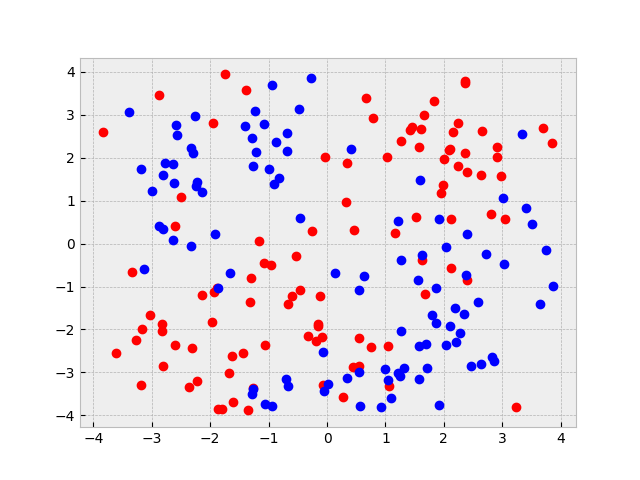
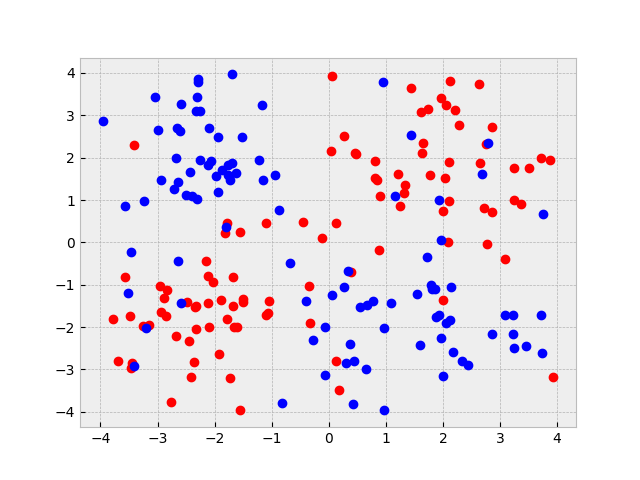
before random tree implementation

diff --git a/src/decision_tree.py b/src/decision_tree.py
@@ -2,12 +2,12 @@ import math
 import random
 
 class DecisionTree():
-    def __init__(self, data_dict, min_size_to_split):
+    def __init__(self, data_dict, min_size_to_split, random_splits=None):
         self.point_data = data_dict
         self.entropy = self.calculate_entropy()
         self.branches = []
-        self.best_split = None
         self.min_size_to_split = min_size_to_split
+        self.random_splits = random_splits
 
     def get_all_points(self, data_dict=None):
         all_points = []
@@ -108,10 +108,7 @@ class DecisionTree():
         return possible_splits
 
     def get_best_split(self, data_dict=None):
-        set_best_split = False
-
         if data_dict == None:
-            set_best_split = True
             data_dict = self.point_data
 
         all_splits = self.get_all_possible_splits(data_dict)
@@ -127,10 +124,15 @@ class DecisionTree():
                 best_split = split
                 best_entropy = weighted_entropy
 
-        if set_best_split:
-            self.best_split = best_split
-
         return best_split
+
+    def get_random_split(self, data_dict=None):
+        if data_dict == None:
+            data_dict = self.point_data
+
+        all_splits = self.get_all_possible_splits(data_dict)
+
+        return random.choice(all_splits)
 
     def fit(self, decision_tree=None):
         if decision_tree == None:
@@ -139,25 +141,24 @@ class DecisionTree():
         if len(decision_tree.branches) != 0 or len(decision_tree.get_all_points()) <= self.min_size_to_split:
             return
 
-        decision_tree.get_best_split()
-        decision_tree.split(decision_tree.best_split)
-        branches = [branch for branch in decision_tree.branches if branch.entropy != 0]
-        next_branches = []
-
-        while True:
-            for branch in branches:
-                if len(branch.get_all_points()) <= self.min_size_to_split or len(set(branch.get_all_points())) == 1:
-                    continue
-
-                branch.get_best_split()
-                branch.split(branch.best_split)
-                next_branches += [next_branch for next_branch in branch.branches if next_branch.entropy != 0]
-
-            branches = next_branches
+        if self.random_splits != True:
+            decision_tree.split(decision_tree.get_best_split())
+            branches = [branch for branch in decision_tree.branches if branch.entropy != 0]
             next_branches = []
 
-            if len(branches) == 0:
-                break
+            while True:
+                for branch in branches:
+                    if len(branch.get_all_points()) <= self.min_size_to_split or len(set(branch.get_all_points())) == 1:
+                        continue
+
+                    branch.split(branch.get_best_split())
+                    next_branches += [next_branch for next_branch in branch.branches if next_branch.entropy != 0]
+
+                branches = next_branches
+                next_branches = []
+
+                if len(branches) == 0:
+                    break          
 
     def get_point_type(self, decision_tree=None):
         if decision_tree == None:
@@ -180,12 +181,14 @@ class DecisionTree():
         if decision_tree == None:
             decision_tree = self
 
+        decision_tree.fit()
+
         while decision_tree.entropy != 0 and len(decision_tree.get_all_points()) > self.min_size_to_split and len(set(decision_tree.get_all_points())) != 1:
 
-            if unknown_point[decision_tree.best_split[0]] >= decision_tree.best_split[1]:
+            if unknown_point[decision_tree.get_best_split()[0]] >= decision_tree.get_best_split()[1]:
                 decision_tree = decision_tree.branches[0]
 
-            elif unknown_point[decision_tree.best_split[0]] < decision_tree.best_split[1]:
+            elif unknown_point[decision_tree.get_best_split()[0]] < decision_tree.get_best_split()[1]:
                 decision_tree = decision_tree.branches[1]
 
         return decision_tree.get_point_type()

diff --git a/tests/test_decision_tree.py b/tests/test_decision_tree.py
@@ -1,7 +1,11 @@
-
+import sys
+sys.path.append('datasets')
+from semi_random_data import *
+sys.path.append('src')
 from decision_tree import *
 import math
 import random
+#import matplotlib.pyplot as plt
 '''
 data = {'x': [(2, 1), (2, 2), (3, 2), (3, 3)], 'o': [(2, 3), (2, 4), (3, 4)]}
 
@@ -61,7 +65,7 @@ assert decision_tree.predict((2, 5)) == 'x'
 assert decision_tree.predict((0, 10)) == 'x'
 assert len(decision_tree.branches[0].branches) == 0
 assert len(decision_tree.branches[1].branches) == 0
-'''
+
 data = {'x': [(0, 1), (0, 1), (0, 2), (1, 1), (1, 2), (1, 2)], 'o': [(0, 2), (1, 1), (1, 1), (1, 2)]}
 decision_tree = DecisionTree(data, 1)
 decision_tree.fit()
@@ -79,3 +83,113 @@ for n in range(-10, 0):
         assert decision_tree.predict((n, num)) == initial_prediction
 
 print('PASSED')
+
+def remove_from_dict(input_dict, key, value):
+    new_dict = input_dict.copy()
+    new_items = new_dict[key].remove(value)
+    new_dict[key] = new_items
+    return new_dict
+
+
+def add_to_dict(points):
+    new_dict = {key:[] for key in points[0]}
+
+    for point_dict in points:
+        for key in point_dict:
+            new_dict[key] += point_dict[key]
+
+    return new_dict
+
+
+def get_all_points(point_data):
+    all_points = []
+
+    for key in point_data:
+        all_points += point_data[key]
+
+    return all_points
+
+
+def random_fold(point_data, fold_size):
+    keys = list(point_data.keys())
+    fold = {key:[] for key in keys}
+
+    for _ in range(fold_size):
+        key = keys[random.randint(0, len(keys) - 1)]
+
+        if len(point_data[key]) == 0:
+            keys.remove(key)
+            key = keys[random.randint(0, len(keys) - 1)]
+
+        values = point_data[key]
+        value = values[random.randint(0, len(values) - 1)]
+        fold[key].append(value)
+        remove_from_dict(point_data, key, value)
+
+    return fold
+
+
+def get_multiple_folds(fold_number, point_data, fold_size):
+    folds = []
+
+    for _ in range(fold_number):
+        folds.append(random_fold(point_data, fold_size))
+
+    return folds
+
+
+def get_accuracy(decision_tree, test_points):
+    all_predictions = 0
+    correct_predictions = 0
+
+    for key in test_points:
+        for point in test_points[key]:
+            if decision_tree.predict(point) == key:
+                correct_predictions += 1
+
+            all_predictions += 1
+
+    return correct_predictions / all_predictions
+
+
+def get_traning_set(training_folds, testing_fold):
+    points = [fold for fold in all_folds if fold != testing_fold]
+    return add_to_dict(points)
+
+
+all_folds = get_multiple_folds(5, point_data, 40)
+
+min_size_to_split_values = [1, 2, 5, 10, 15, 20, 30, 50, 100]
+
+accuracies = []
+
+for min_size_to_split in min_size_to_split_values:
+    accuracy = 0
+
+    for fold in all_folds:
+        training_set = get_traning_set(all_folds, fold)
+        decision_tree = DecisionTree(training_set, min_size_to_split)
+        decision_tree.fit()
+        accuracy += get_accuracy(decision_tree, fold)
+
+    accuracy /= len(all_folds)
+    accuracies.append(accuracy)
+
+
+plt.style.use('bmh')
+plt.plot([min_size_to_split for min_size_to_split in min_size_to_split_values], [accuracy for accuracy in accuracies])
+plt.xlabel('min_size_to_split')
+plt.ylabel('5-fold Cross Valiation Accuracy')
+plt.savefig('test.png')
+'''
+
+data = {'x': [(1, 5), (2, 5), (1, 3), (2, 4)], 'o': [(1, 4), (2, 3)]}
+'''
+decision_tree = DecisionTree(data, 5)
+random_tree = DecisionTree(data, 1, True)
+assert decision_tree.predict((2, 8)) == random_tree.predict((2, 8))
+assert decision_tree.predict((-10, 100)) == 'x'
+'''
+
+random_tree = DecisionTree(data, 1, True)
+print(random_tree.random_splits)

diff --git a/datasets/semi_random_data.py b/datasets/semi_random_data.py
@@ -1,12 +1,9 @@
 import random
-import matplotlib.pyplot as plt
 import math
+#import matplotlib.pyplot as plt
 
-x_points = []
-o_points = []
-
-x_centers = [(2, 2), (-2, -2)]
-o_centers = [(2, -2), (-2, 2)]
+point_data = {'x': [], 'o': []}
+centers = {'x': [(2, 2), (-2, -2)], 'o': [(2, -2), (-2, 2)]}
 
 
 def calculate_distance(initial_point, ending_point):
@@ -18,11 +15,9 @@ def calculate_distance(initial_point, ending_point):
 def find_closest_center(point, point_type):
     possible_centers = []
 
-    if point_type == 'x':
-        possible_centers = x_centers
-
-    if point_type == 'o':
-        possible_centers = o_centers
+    for key in centers:
+        if point_type == key:
+            possible_centers = centers[key]
 
     min_distance = 100000
     closest_center = (100, 100)
@@ -43,36 +38,27 @@ def probability(x):
 
 num_points = 0
 
-while num_points < 100:
+while num_points < 200:
     x = random.uniform(-4, 4)
     y = random.uniform(-4, 4)
 
-    closest_center = find_closest_center((x, y), 'x')
+    point_type = 'x'
+
+    if num_points < 100:
+        point_type = 'o'
+
+    closest_center = find_closest_center((x, y), point_type)
 
     distance = calculate_distance((x, y), closest_center)
 
     if probability(distance) >= random.uniform(0, 1):
-        x_points.append((x, y))
-        num_points += 1
-  
-
-num_points = 0
-
-while num_points < 100:
-    x = random.uniform(-4, 4)
-    y = random.uniform(-4, 4)
-
-    closest_center = find_closest_center((x, y), 'o')
-
-    distance = calculate_distance((x, y), closest_center)
-
-
-    if probability(distance) >= random.uniform(0, 1):
-        o_points.append((x, y))
+        point_data[point_type].append((x, y))
         num_points += 1
 
 
+'''
 plt.style.use('bmh')
-plt.plot([x[0] for x in x_points], [y[1] for y in x_points], 'ro')
-plt.plot([x[0] for x in o_points], [y[1] for y in o_points], 'bo')
+plt.plot([point[0] for point in point_data['x']], [point[1] for point in point_data['x']], 'ro')
+plt.plot([point[0] for point in point_data['o']], [point[1] for point in point_data['o']], 'bo')
 plt.savefig('semi_random_data.png')
+'''

diff --git a/test.py b/test.py
@@ -1,0 +1,6 @@
+dictionary = {1:[], 2:[]}
+x = {1:[(0, 1)], 2:[1,2,3]}
+dictionary[1].append(x[1][0])
+print(dictionary)
+
+print(len(x[1]+x[2]))
